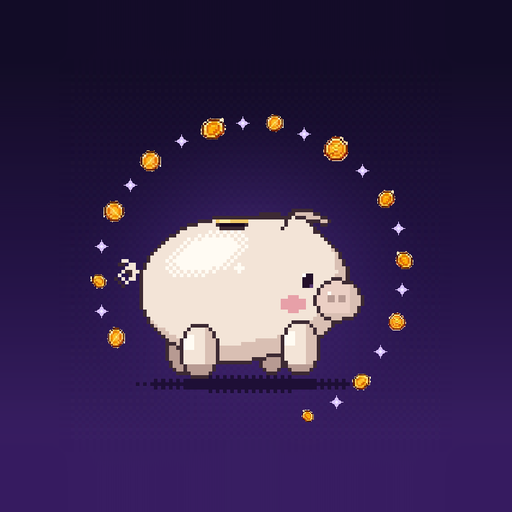
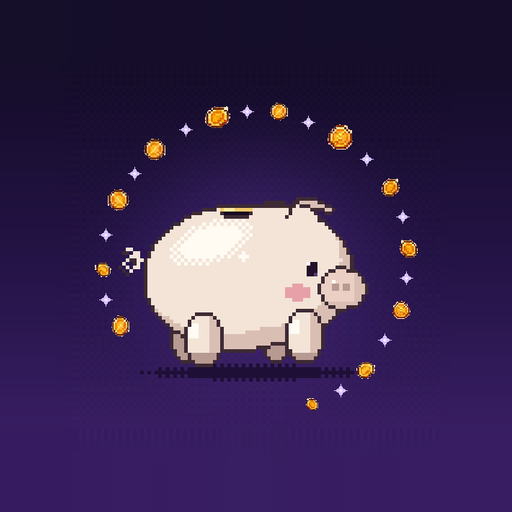
Add files via upload

diff --git a/sw.js b/sw.js
@@ -1,4 +1,4 @@
-const CACHE_NAME = "ledger-cache-v112";
+const CACHE_NAME = "ledger-cache-v113";
 const ASSETS = [
   "./",
   "./index.html",
